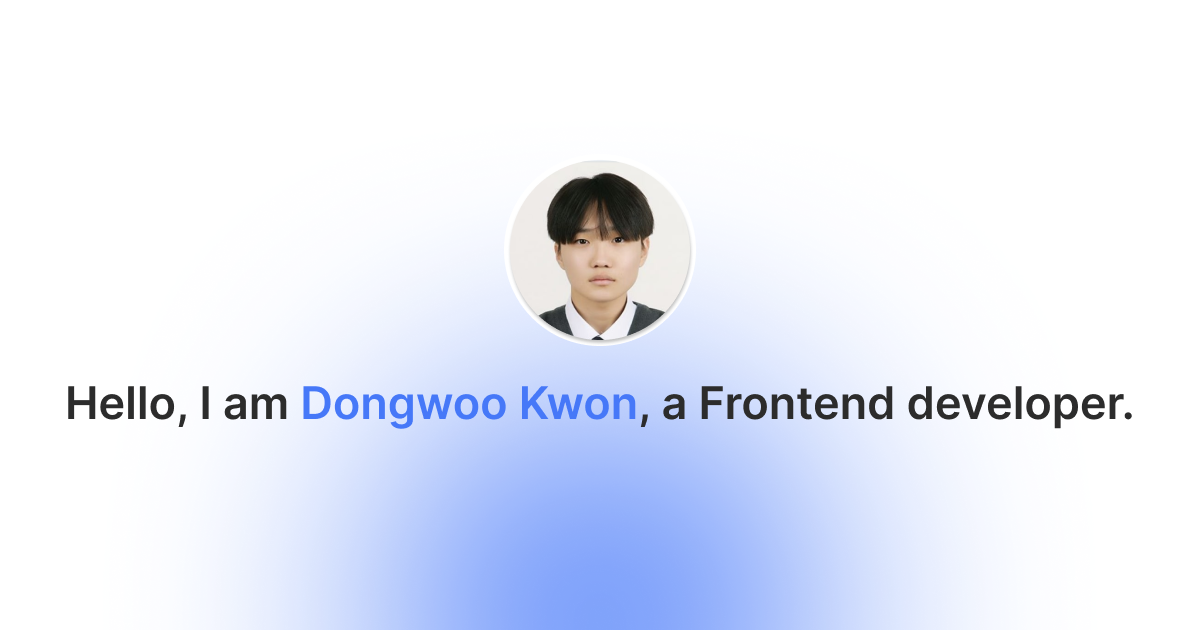
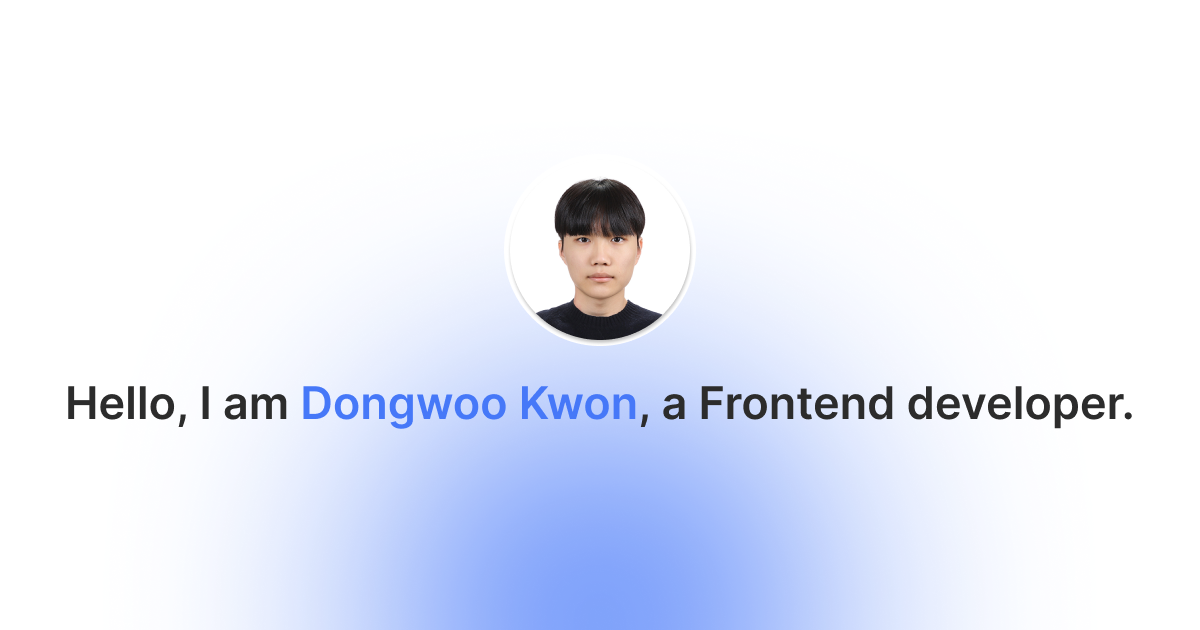
chore: update pofile image

Changed region(s): [[0.4317, 0.2714, 0.555, 0.5429]]

diff --git a/components/IntroSection/ProfileHeader.tsx b/components/IntroSection/ProfileHeader.tsx
@@ -1,6 +1,6 @@
 import Image from "next/image";
 import { Phone, Mail } from "lucide-react";
-import profileImg from "@/assets/profileImg.jpeg";
+import profileImg from "@/assets/profileImg.png";
 import { commonProfileData } from "@/data/profile";
 import ProfileStatus from "./ProfileStatus";
 
